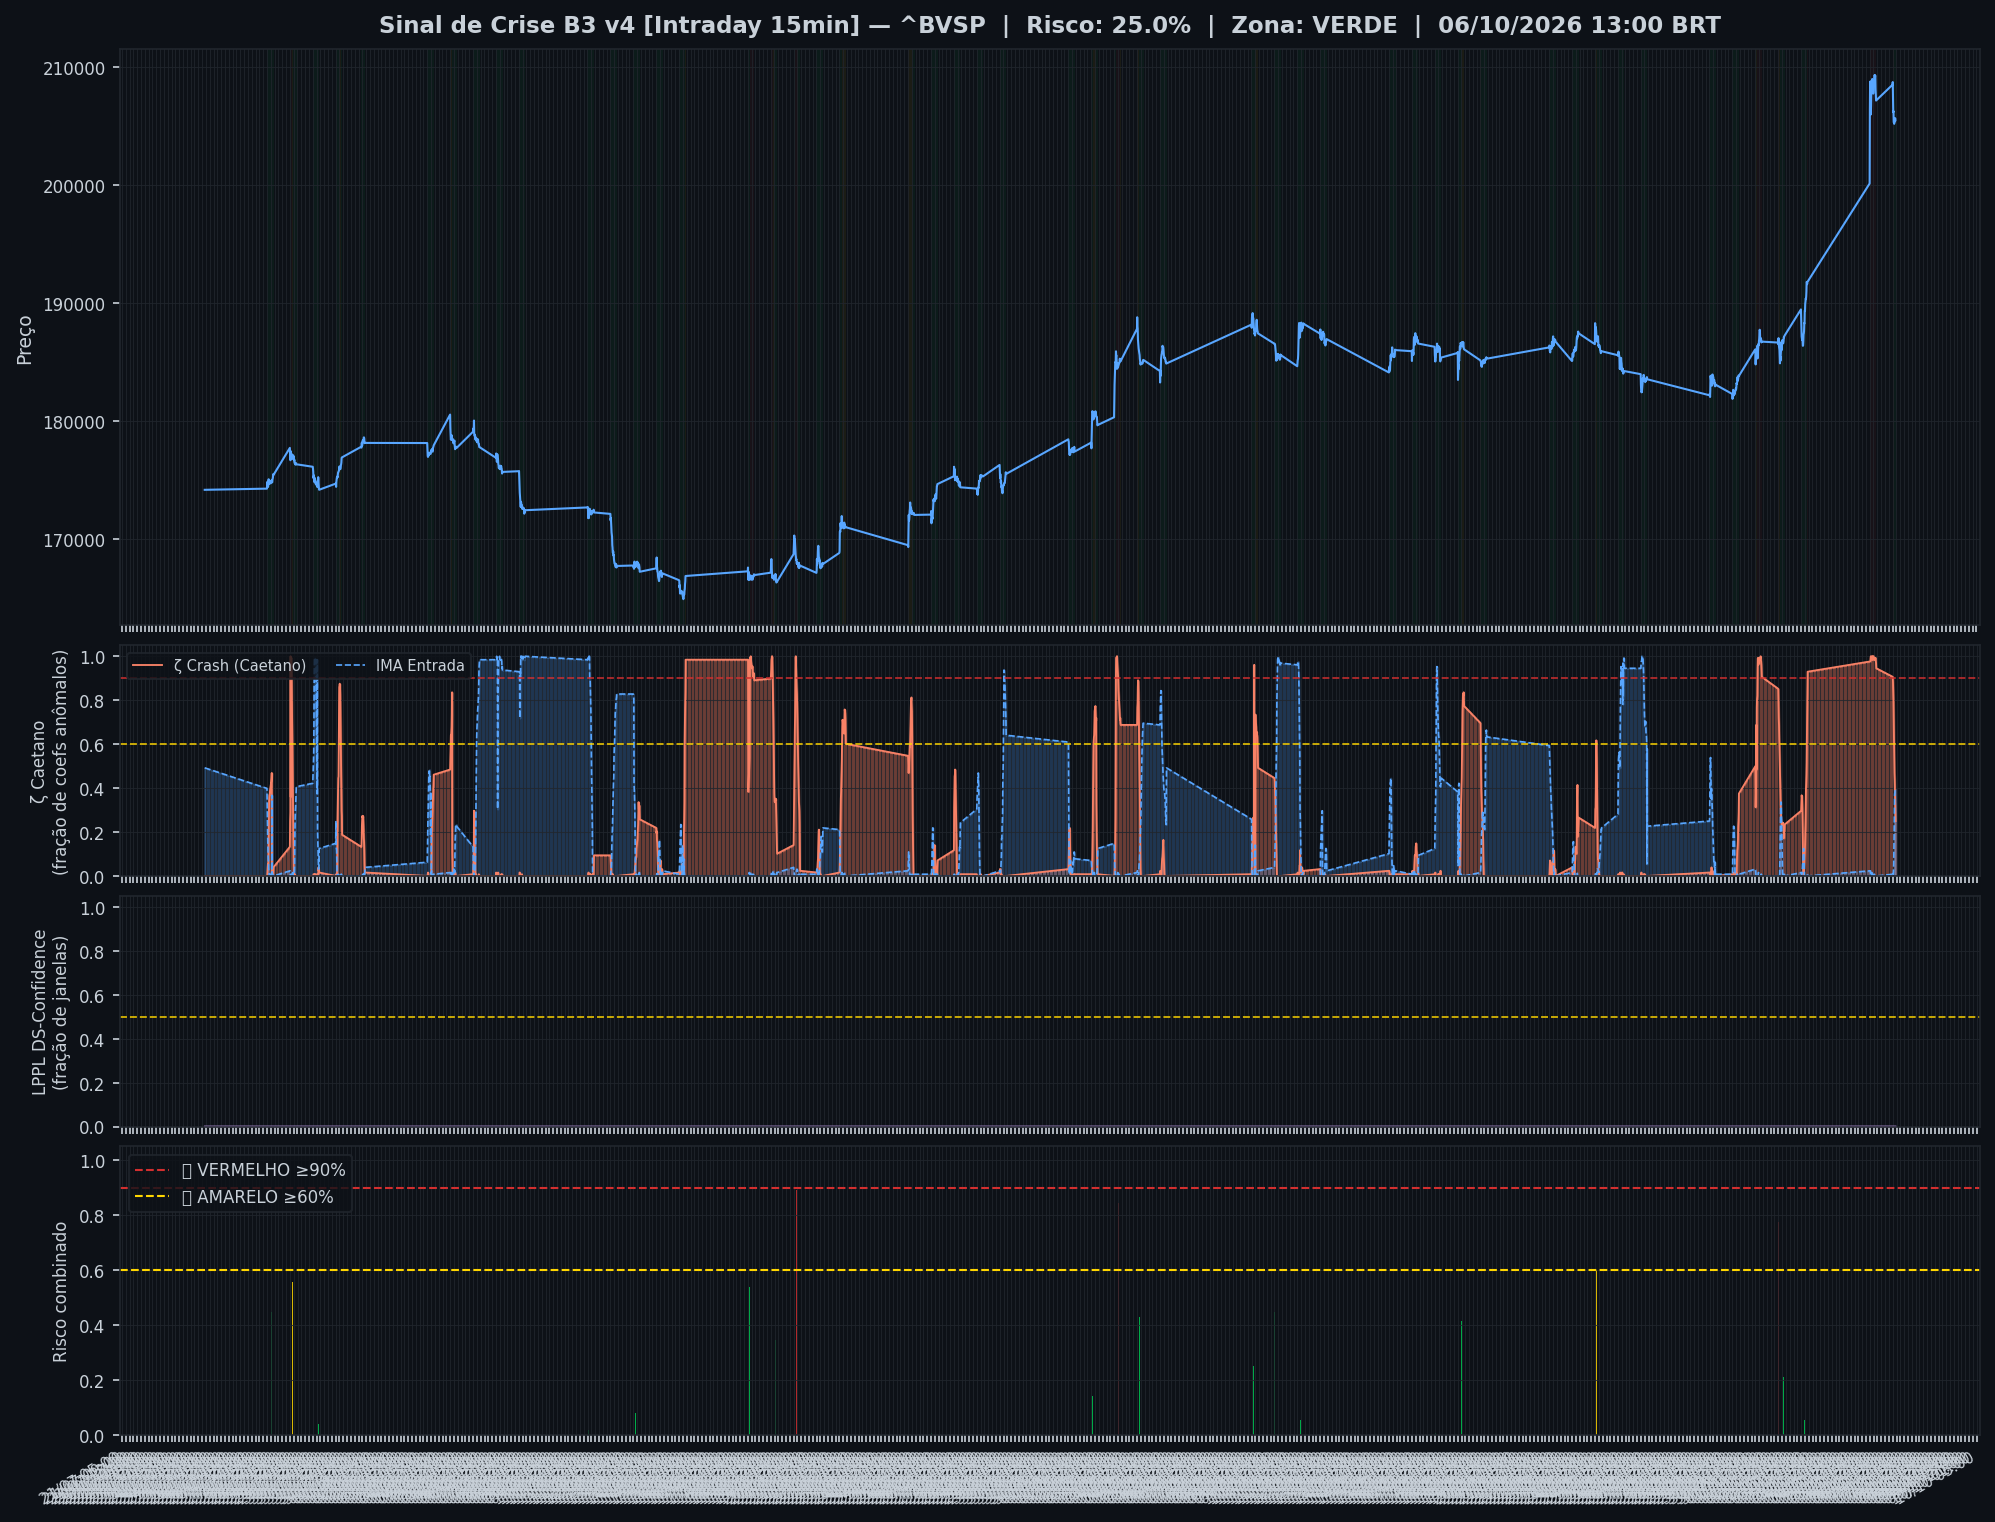
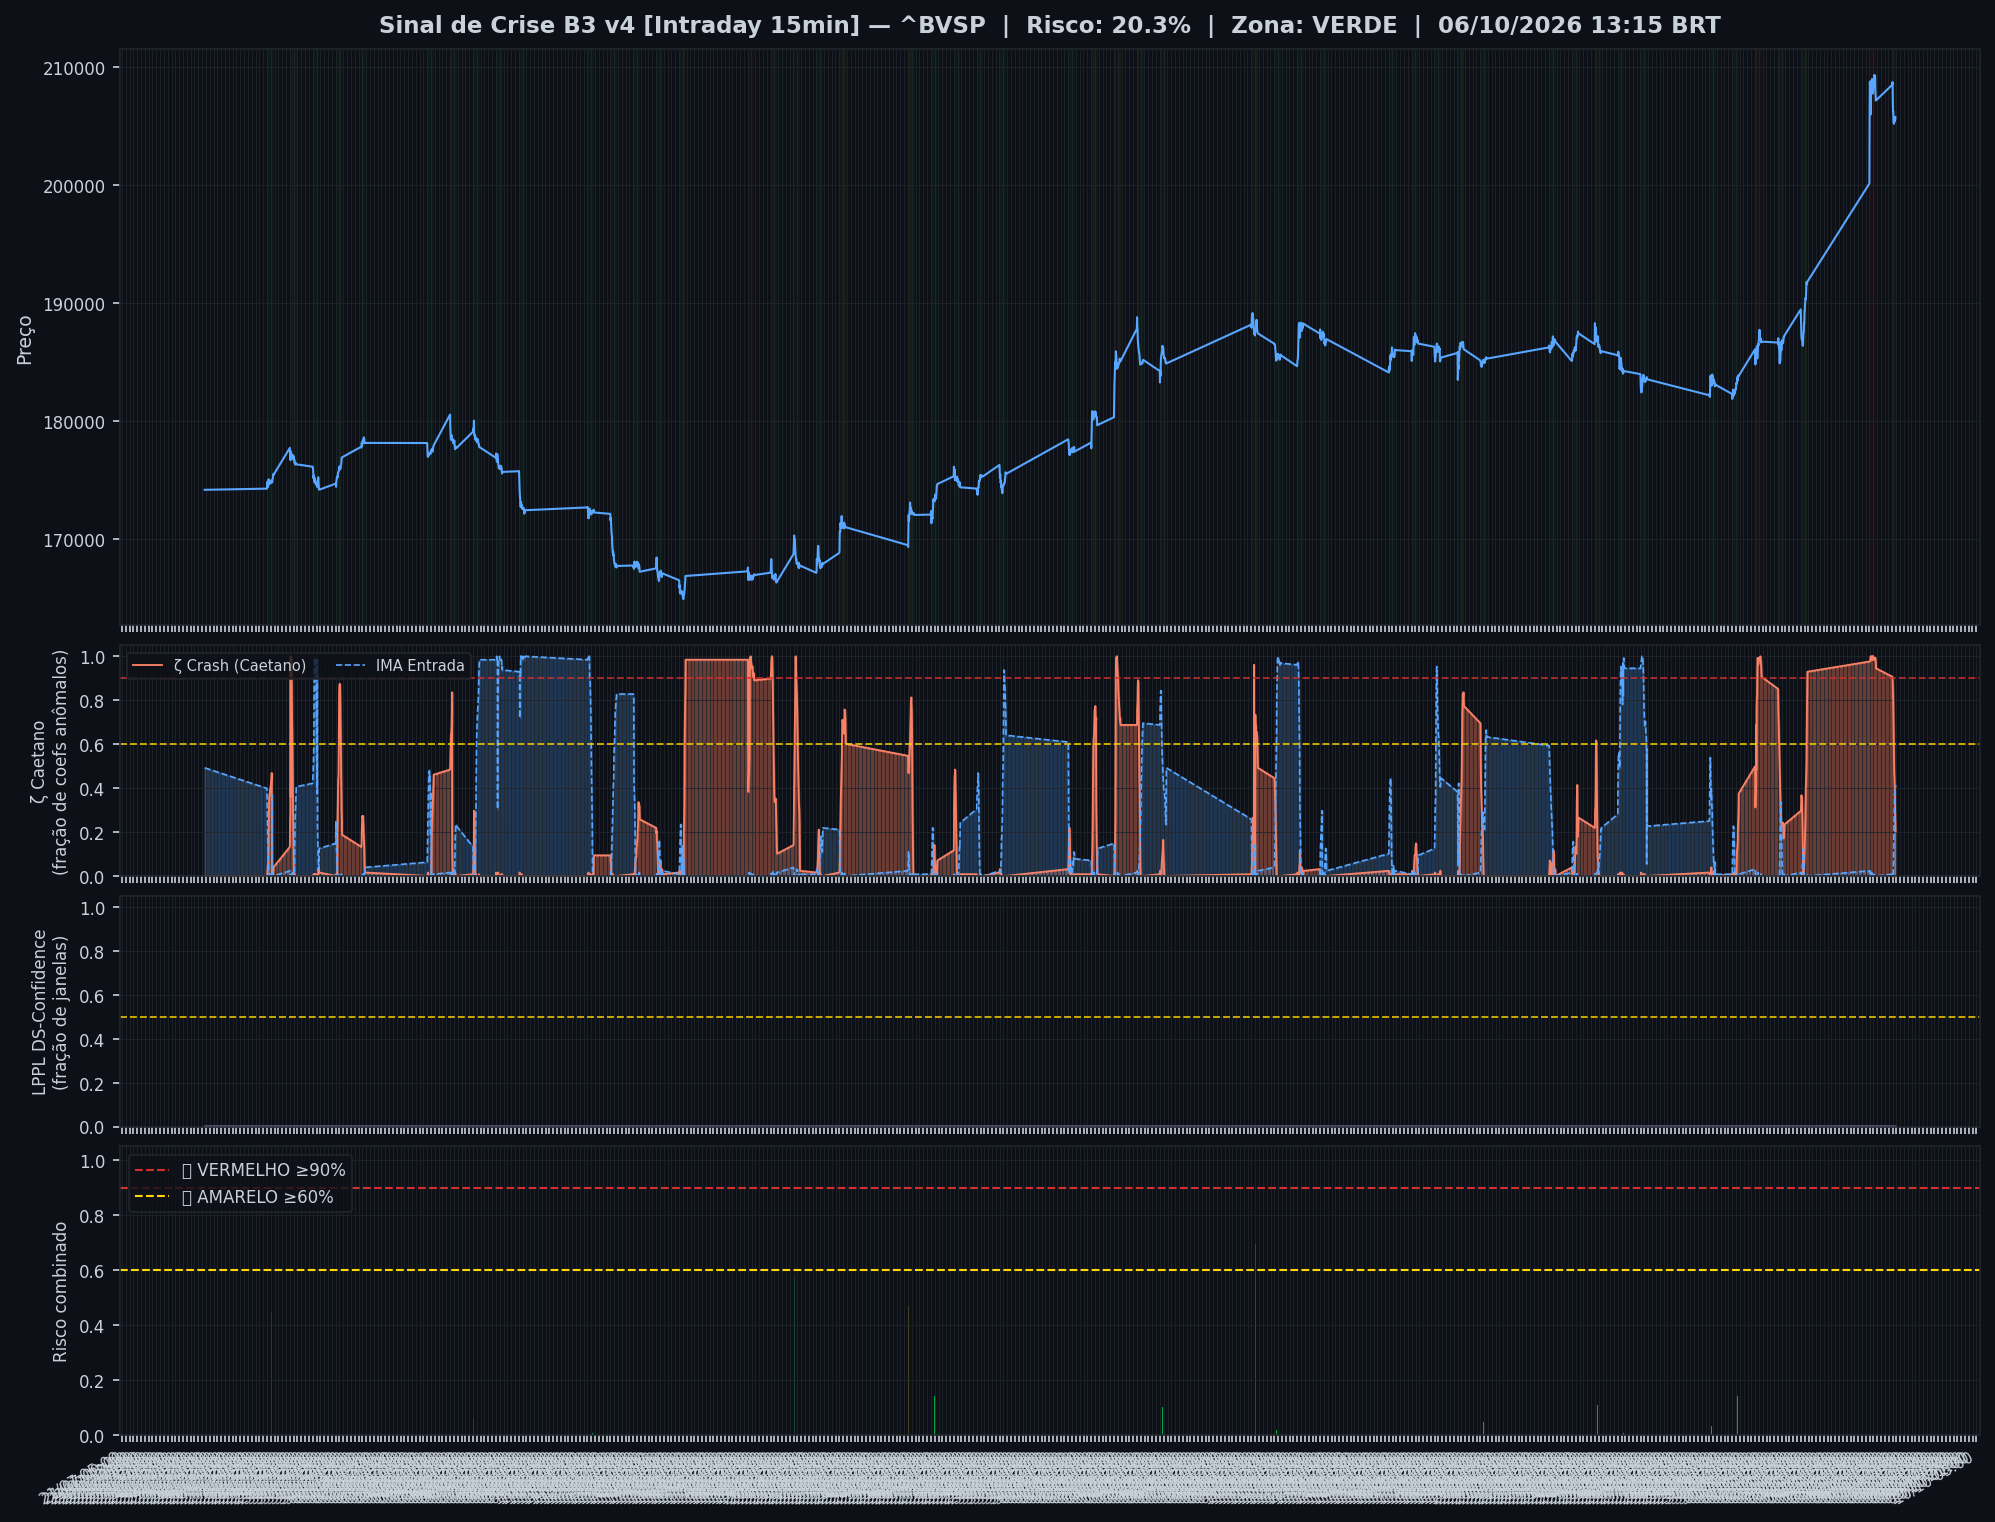
🤖 Auto: Sinal 06/10/2026 14:00

diff --git a/content/intraday/2026-10-06.md b/content/intraday/2026-10-06.md
@@ -1,20 +1,20 @@
 ---
-title: "🟢 Intraday 06/10/2026 13:00 BRT — VERDE"
+title: "🟢 Intraday 06/10/2026 13:15 BRT — VERDE"
 date: 2026-10-06
 tags: [intraday]
 ---
 
-> [!success] 🟢 **VERDE** — Risco 25% · ▼ -5 p.p. vs leitura anterior
-> `█████░░░░░░░░░░░░░░░`
+> [!success] 🟢 **VERDE** — Risco 20% · ▼ -5 p.p. vs leitura anterior
+> `████░░░░░░░░░░░░░░░░`
 > Mercado sem sinais relevantes de estresse.
 
 
 | Indicador | Valor |
 |---|---|
-| 🔴 ζ Crash — severidade da queda em curso | **25%** |
-| 🔵 ζ Entrada — estrutura de fundo | 40% |
+| 🔴 ζ Crash — severidade da queda em curso | **20%** |
+| 🔵 ζ Entrada — estrutura de fundo | 41% |
 | 🫧 LPPL DS-Confidence | 0% |
-| 📊 Ibovespa | 205.521 pts |
+| 📊 Ibovespa | 205.803 pts |
 
 ![Gráfico do sinal](../graficos/sinal_intraday.png)
 
@@ -22,6 +22,7 @@ tags: [intraday]
 
 | Data | Zona | Risco | IMA Crash | Entrada | LPPL |
 |---|---|---|---|---|---|
+| 2026-10-06 13:15 | 🟢 VERDE | **20%** | 20% | 41% | 0% |
 | 2026-10-06 13:00 | 🟢 VERDE | **25%** | 25% | 40% | 0% |
 | 2026-10-06 12:45 | 🟢 VERDE | **30%** | 30% | 40% | 0% |
 | 2026-10-06 12:30 | 🟢 VERDE | **34%** | 34% | 39% | 0% |
@@ -51,7 +52,6 @@ tags: [intraday]
 | 2026-10-05 13:30 | 🔴 VERMELHO | **100%** | 100% | 0% | 0% |
 | 2026-10-05 13:15 | 🔴 VERMELHO | **99%** | 99% | 1% | 0% |
 | 2026-10-05 13:00 | 🔴 VERMELHO | **98%** | 98% | 0% | 0% |
-| 2026-10-05 12:45 | 🔴 VERMELHO | **100%** | 100% | 0% | 0% |
 
 ## Monitor Multi-Ativo
 
@@ -59,34 +59,34 @@ tags: [intraday]
 
 | Zona | Ativo | Setor | IMA Crash | IMA Entrada |
 |---|---|---|---|---|
-| 🟢 | **ITAUUNIBANCO** | Financeiro | 0.0% | 71.1% |
-| 🟢 | **VALE** | Mineração | 0.0% | 71.9% |
-| 🟢 | **PETROBRAS** | Petróleo | 0.0% | 71.1% |
-| 🟢 | **PETROBRAS** | Petróleo | 0.0% | 71.1% |
-| 🟢 | **AXIA ENERGIA** | Energia | 0.0% | 71.1% |
-| 🟢 | **B3** | Financeiro | 0.0% | 71.1% |
-| 🟢 | **BRADESCO** | Financeiro | 0.0% | 71.1% |
-| 🟢 | **SABESP** | Saneamento | 0.0% | 71.1% |
-| 🟢 | **ITAUSA** | Financeiro | 0.0% | 71.1% |
-| 🟢 | **BTGP BANCO** | Financeiro | 0.0% | 71.1% |
-| 🟢 | **BRASIL** | Financeiro | 0.0% | 71.1% |
-| 🟢 | **WEG** | Industrial | 0.0% | 71.1% |
-| 🟢 | **EMBRAER** | Outros | 0.0% | 71.1% |
-| 🟢 | **AMBEV S/A** | Consumo | 0.0% | 71.1% |
-| 🟢 | **EQUATORIAL** | Energia | 0.0% | 71.1% |
-| 🟢 | **ENEVA** | Energia | 0.0% | 71.1% |
-| 🟢 | **COPEL** | Energia | 0.0% | 71.1% |
-| 🟢 | **LOCALIZA** | Aluguel | 0.0% | 71.1% |
-| 🟢 | **PRIO** | Petróleo | 0.0% | 71.1% |
-| 🟢 | **VIBRA** | Energia | 0.0% | 71.1% |
-| 🟢 | **REDE D OR** | Saúde | 0.0% | 71.1% |
-| 🟢 | **ULTRAPAR** | Outros | 0.0% | 71.1% |
-| 🟢 | **GERDAU** | Siderurgia | 0.0% | 71.1% |
-| 🟢 | **USD/BRL** | Câmbio | 0.0% | 68.8% |
+| 🟢 | **ITAUUNIBANCO** | Financeiro | 0.0% | 68.8% |
+| 🟢 | **VALE** | Mineração | 0.0% | 68.8% |
+| 🟢 | **PETROBRAS** | Petróleo | 0.0% | 68.8% |
+| 🟢 | **PETROBRAS** | Petróleo | 0.0% | 68.8% |
+| 🟢 | **AXIA ENERGIA** | Energia | 0.0% | 68.8% |
+| 🟢 | **B3** | Financeiro | 0.0% | 68.8% |
+| 🟢 | **BRADESCO** | Financeiro | 0.0% | 68.8% |
+| 🟢 | **SABESP** | Saneamento | 0.0% | 68.8% |
+| 🟢 | **ITAUSA** | Financeiro | 0.0% | 68.8% |
+| 🟢 | **BTGP BANCO** | Financeiro | 0.0% | 68.8% |
+| 🟢 | **BRASIL** | Financeiro | 0.0% | 68.8% |
+| 🟢 | **WEG** | Industrial | 0.0% | 68.8% |
+| 🟢 | **EMBRAER** | Outros | 0.0% | 68.8% |
+| 🟢 | **AMBEV S/A** | Consumo | 0.0% | 68.8% |
+| 🟢 | **EQUATORIAL** | Energia | 0.0% | 68.8% |
+| 🟢 | **ENEVA** | Energia | 0.0% | 68.8% |
+| 🟢 | **COPEL** | Energia | 0.0% | 68.8% |
+| 🟢 | **LOCALIZA** | Aluguel | 0.0% | 68.8% |
+| 🟢 | **PRIO** | Petróleo | 0.0% | 68.8% |
+| 🟢 | **VIBRA** | Energia | 0.0% | 68.8% |
+| 🟢 | **REDE D OR** | Saúde | 0.0% | 68.8% |
+| 🟢 | **ULTRAPAR** | Outros | 0.0% | 68.8% |
+| 🟢 | **GERDAU** | Siderurgia | 0.0% | 68.8% |
+| 🟢 | **USD/BRL** | Câmbio | 0.0% | 65.6% |
 
 ![Monitor multi-ativo](../graficos/multi_intraday.png)
 
-*Página atualizada em 06/10/2026 13:45 BRT (leitura da barra de 2026-10-06 13:00 BRT).*
+*Página atualizada em 06/10/2026 14:00 BRT (leitura da barra de 2026-10-06 13:15 BRT).*
 
 > [!info]- Como interpretar (clique para expandir)
 > - **ζ Crash**: fração dos coeficientes wavelet acima do corte (Caetano & Yoneyama 2009). Escala absoluta: ζ=0,90 = 90% dos coeficientes anômalos — historicamente, quedas com ζ≥0,90 foram mais fundas e mais longas. **Mede a severidade do movimento em curso, não prevê o início da queda.**

diff --git a/content/index.md b/content/index.md
@@ -8,19 +8,19 @@ tags: [home]
 
 Monitoramento diário e intraday do Ibovespa — **IMA Wavelet** (Prof. Marco Antonio Leonel Caetano, ITA/INSPER) + **LPPL DS-Confidence** (Prof. Didier Sornette, ETH-Zurich).
 
-*Última atualização: 06/10/2026 13:45 BRT · ^BVSP · Intraday 15min · v4*
+*Última atualização: 06/10/2026 14:00 BRT · ^BVSP · Intraday 15min · v4*
 
-> [!success] 🟢 **VERDE** — Risco 25% · ▼ -5 p.p. vs leitura anterior
-> `█████░░░░░░░░░░░░░░░`
+> [!success] 🟢 **VERDE** — Risco 20% · ▼ -5 p.p. vs leitura anterior
+> `████░░░░░░░░░░░░░░░░`
 > Mercado sem sinais relevantes de estresse.
 
 
 | Indicador | Valor |
 |---|---|
-| 🔴 ζ Crash — severidade da queda em curso | **25%** |
-| 🔵 ζ Entrada — estrutura de fundo | 40% |
+| 🔴 ζ Crash — severidade da queda em curso | **20%** |
+| 🔵 ζ Entrada — estrutura de fundo | 41% |
 | 🫧 LPPL DS-Confidence | 0% |
-| 📊 Ibovespa | 205.521 pts |
+| 📊 Ibovespa | 205.803 pts |
 
 **Multi-ativo:** 0% em tensão (0🔴 0🟡 de 24 ativos)
 
@@ -32,7 +32,7 @@ Monitoramento diário e intraday do Ibovespa — **IMA Wavelet** (Prof. Marco An
 
 | Data | Zona | Risco | IMA | LPPL |
 |---|---|---|---|---|
-| [06 Oct 2026](diario/2026-10-06) | 🟢 VERDE | **25%** | 25% | 0% |
+| [06 Oct 2026](diario/2026-10-06) | 🟢 VERDE | **20%** | 20% | 0% |
 | [05 Oct 2026](diario/2026-10-05) | 🔴 VERMELHO | **95%** | 95% | 0% |
 
 ## Navegação

diff --git a/content/historico.md b/content/historico.md
@@ -7,6 +7,7 @@ tags: [historico]
 
 | Data | Modo | Zona | Risco | IMA | LPPL |
 |---|---|---|---|---|---|
+| 2026-10-06 13:15 | intraday | 🟢 VERDE | 20% | 20% | 0% |
 | 2026-10-06 13:00 | intraday | 🟢 VERDE | 25% | 25% | 0% |
 | 2026-10-06 12:45 | intraday | 🟢 VERDE | 30% | 30% | 0% |
 | 2026-10-06 12:30 | intraday | 🟢 VERDE | 34% | 34% | 0% |
